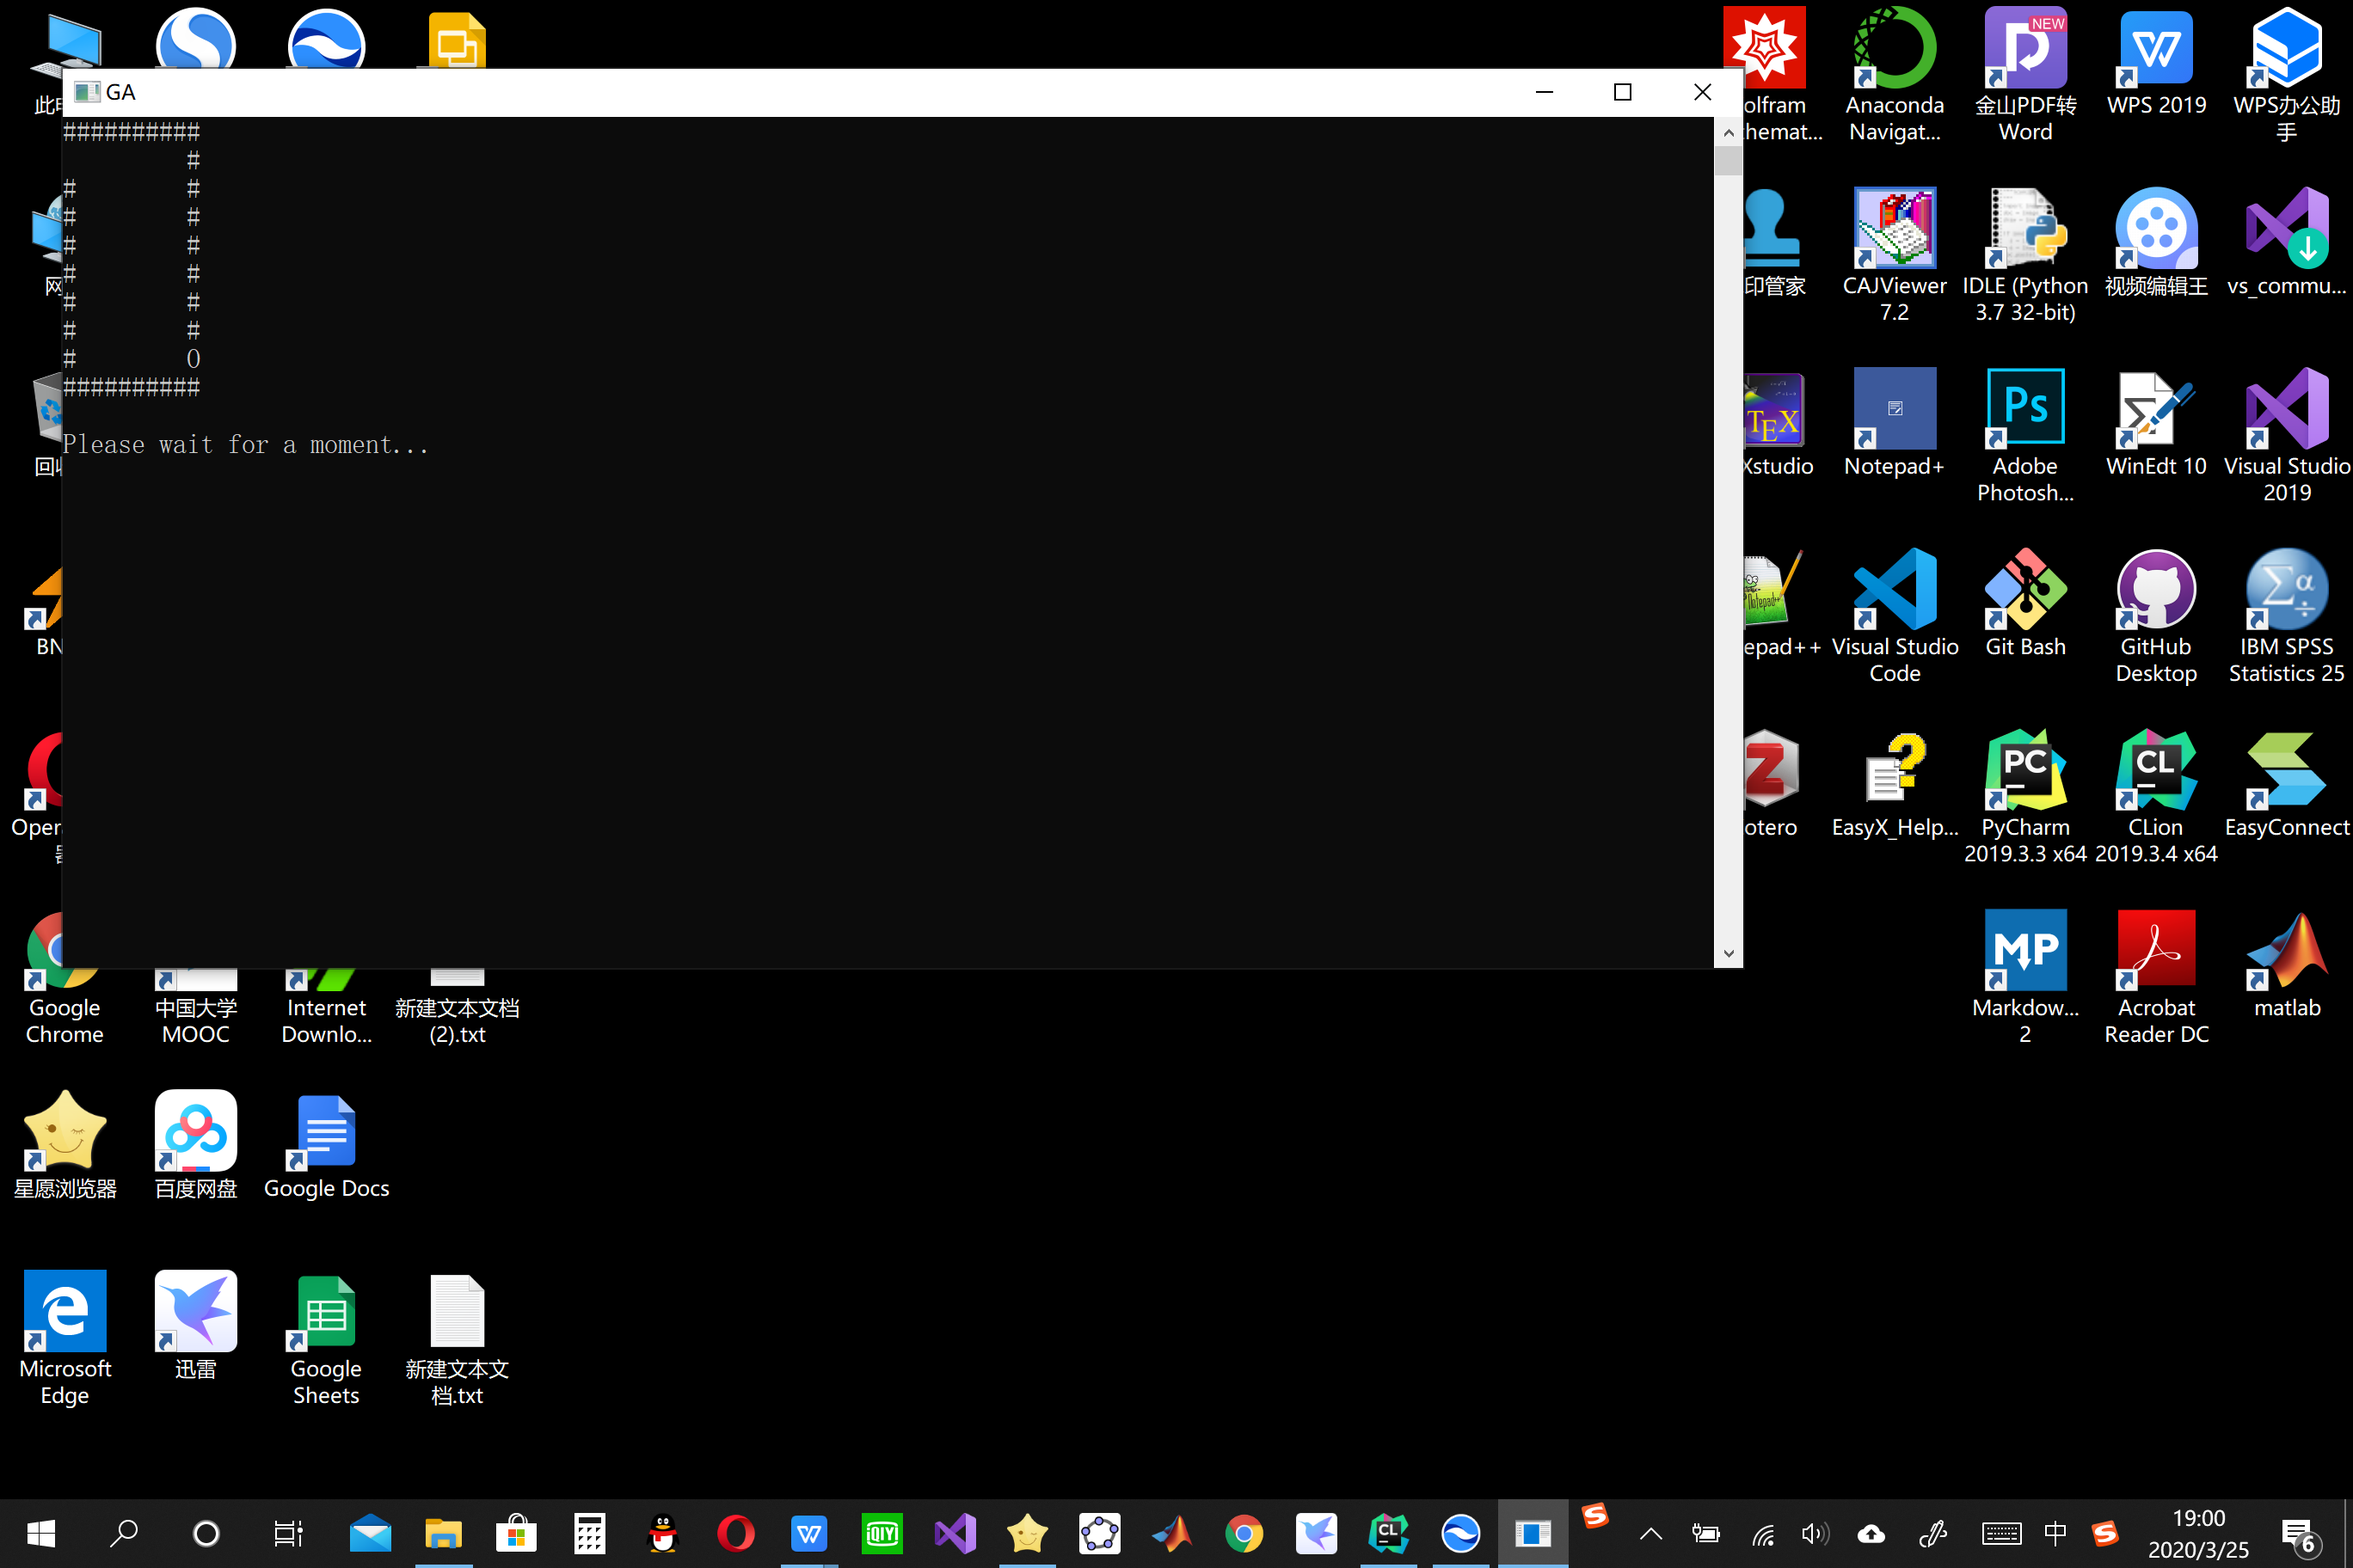
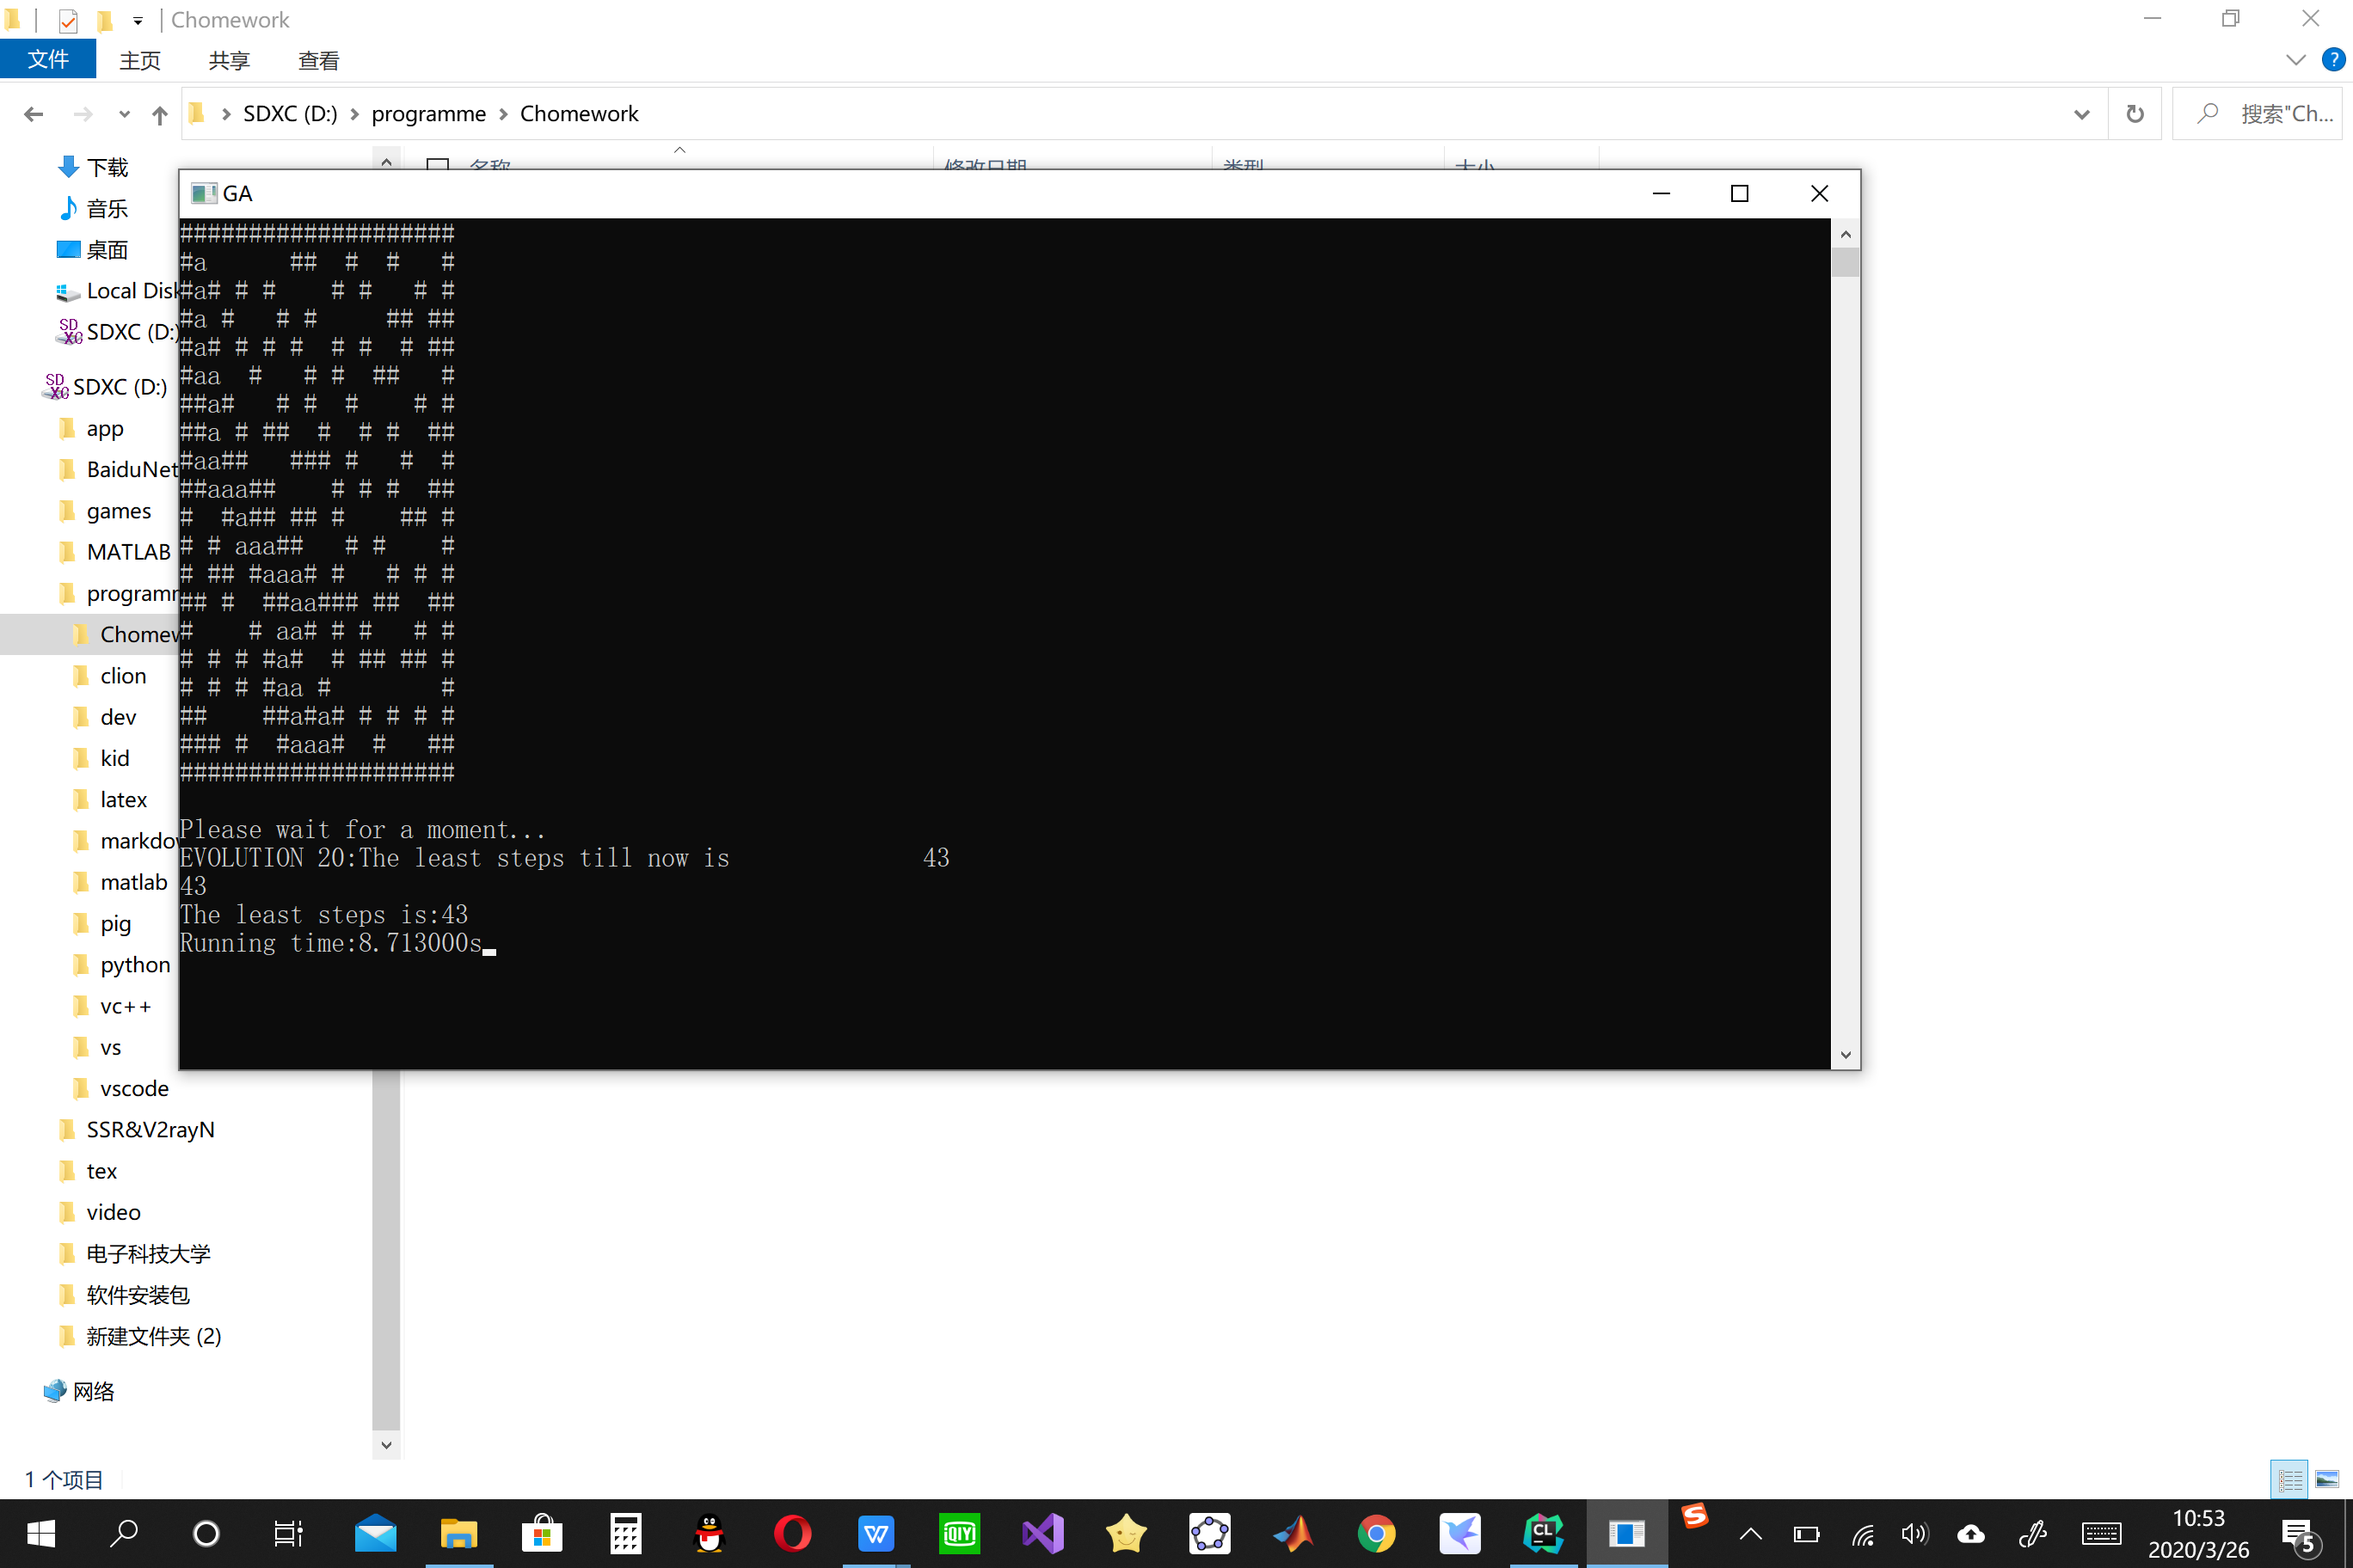
Perfect the GA

diff --git a/level2/GA/GA.c b/level2/GA/GA.c
@@ -15,6 +15,8 @@ extern greatest king;
 extern player players[PLAYERSNUMBER],sons[PLAYERSNUMBER];
 extern int map[HEIGHT][WIDTH];
 extern int maze[4][2];
+extern COORD coord;
+extern HANDLE haut;
 
 void initial(void)
 {
@@ -79,22 +81,39 @@ void printmap(void)
     }
 }
 
+int cmp(const void*a,const void*b)
+{
+    return ((player *)b)->adapt-((player *)a)->adapt;
+}
+
 void evolution(void)
 {
     srand((unsigned)(time(NULL)));
     int sonsum=0;
+    sons[0].adapt=0;
     for (int i = 0; i < PLAYERSNUMBER; ++i)
     {
-        if(players[i].adapt>0)
+        if(players[i].adapt>sons[0].adapt)
         {
             sons[sonsum]=players[i];
-            sonsum++;
         }
     }
+    if(sons[0].adapt!=0)
+        sonsum++;
+    qsort(players,PLAYERSNUMBER, sizeof(player),cmp);
     for (; sonsum<PLAYERSNUMBER ; ++sonsum)
     {
-        for (int j = 0; j < GENELENGTH; ++j)
-            sons[sonsum].gene[j]=rand()%4;
+        int dad=rand()%FATHER;
+        int mom=rand()%FATHER;
+        int temp=rand()%GENELENGTH;
+        for (int i = 0; i < temp; ++i)
+        {
+            sons[sonsum].gene[i]=players[dad].gene[i];
+        }
+        for (int k = temp; k < GENELENGTH; ++k)
+        {
+            sons[sonsum].gene[k]=players[mom].gene[k];
+        }
     }
     for (int k = 0; k < PLAYERSNUMBER; ++k)
     {
@@ -104,7 +123,6 @@ void evolution(void)
 
 void judgethegreat(void)
 {
-    king.adapt=-10000;
     for (int i = 0; i < PLAYERSNUMBER; ++i)
     {
         int steps=0;
@@ -127,7 +145,7 @@ void judgethegreat(void)
                 break;
             }
         }
-        if(players[i].adapt>king.adapt)
+        if(players[i].adapt>=king.adapt)
         {
             king.num=i;
             king.steps=steps;
@@ -138,11 +156,9 @@ void judgethegreat(void)
 
 void printroad(void)
 {
+    int steps=1;
     players[king.num].x=begin.x;
     players[king.num].y=begin.y;
-    HANDLE haut;
-    haut=GetStdHandle(STD_OUTPUT_HANDLE);
-    COORD coord;
     for (int i = 0; i < GENELENGTH ; ++i)
     {
         coord.Y=players[king.num].x;
@@ -153,6 +169,7 @@ void printroad(void)
         {
             players[king.num].x+=maze[players[king.num].gene[i]][0];
             players[king.num].y+=maze[players[king.num].gene[i]][1];
+            steps++;
         }
         else if (map[players[king.num].x+maze[players[king.num].gene[i]][0]][players[king.num].y+maze[players[king.num].gene[i]][1]]==3)
         {
@@ -162,8 +179,13 @@ void printroad(void)
             printf("a");
             break;
         }
+        coord.X=0;
+        coord.Y=HEIGHT+3;
+        SetConsoleCursorPosition(haut,coord);
+        printf("%d",steps);
+        Sleep(100);
     }
-    coord.Y=13;
+    coord.Y=HEIGHT+4;
     coord.X=0;
     SetConsoleCursorPosition(haut,coord);
 }

diff --git a/level2/GA/main.c b/level2/GA/main.c
@@ -1,6 +1,7 @@
 #include<stdio.h>
 #include <time.h>
 #include"GA.h"
+#include <windows.h>
 
 player players[PLAYERSNUMBER],sons[PLAYERSNUMBER];
 start begin;
@@ -8,20 +9,35 @@ end target;
 greatest king;
 int map[HEIGHT][WIDTH];
 int maze[4][2]={{-1,0},{0,-1},{1,0},{0,1}};
+HANDLE haut;
+COORD coord;
 
 int main()
 {
+    haut=GetStdHandle(STD_OUTPUT_HANDLE);
     time_t timestart,timeend;
     timestart=clock();
     readinmap();
     printmap();
     printf("\nPlease wait for a moment...");
     initial();
+    coord.X=0;
+    coord.Y=HEIGHT+2;
+    SetConsoleCursorPosition(haut,coord);
     judgethegreat();
     for(int i=1;i<=EVOLUTION;i++)
     {
+        coord.X=0;
+        coord.Y=HEIGHT+2;
+        SetConsoleCursorPosition(haut,coord);
         evolution();
         judgethegreat();
+        printf("EVOLUTION %d:The least steps till now is %15d",i,king.steps);
+        if(king.adapt==0)
+        {
+            i--;
+            initial();
+        }
     }
     printroad();
     timeend=clock();

diff --git a/level2/GA/GA.h b/level2/GA/GA.h
@@ -5,11 +5,12 @@
 #ifndef GA_GA_H
 #define GA_GA_H
 
-#define GENELENGTH 10000
-#define PLAYERSNUMBER 10000
-#define WIDTH 10
-#define HEIGHT 10
-#define EVOLUTION 1000
+#define GENELENGTH 100
+#define PLAYERSNUMBER 1000
+#define WIDTH 20
+#define HEIGHT 20
+#define EVOLUTION 20
+#define FATHER 60
 
 typedef struct player{
     int x;
